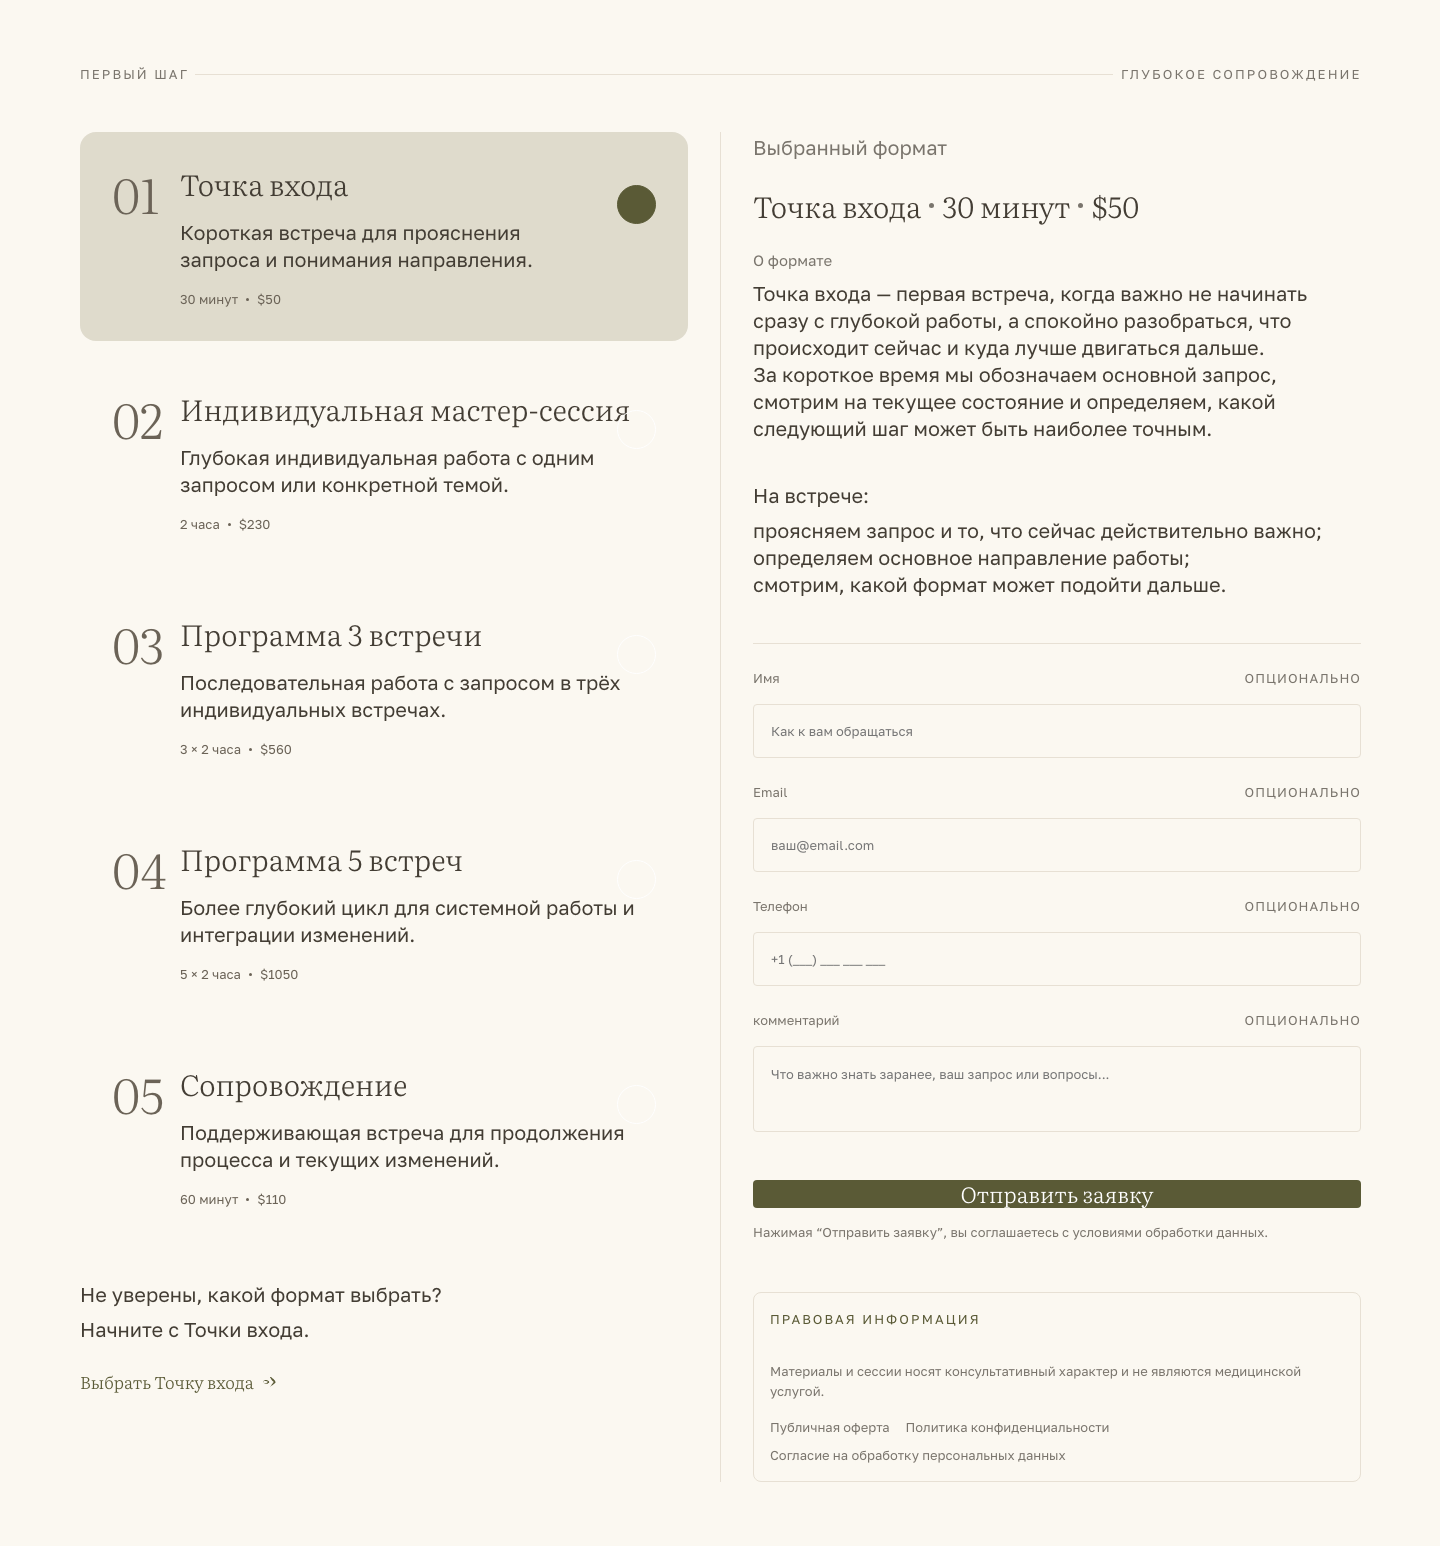
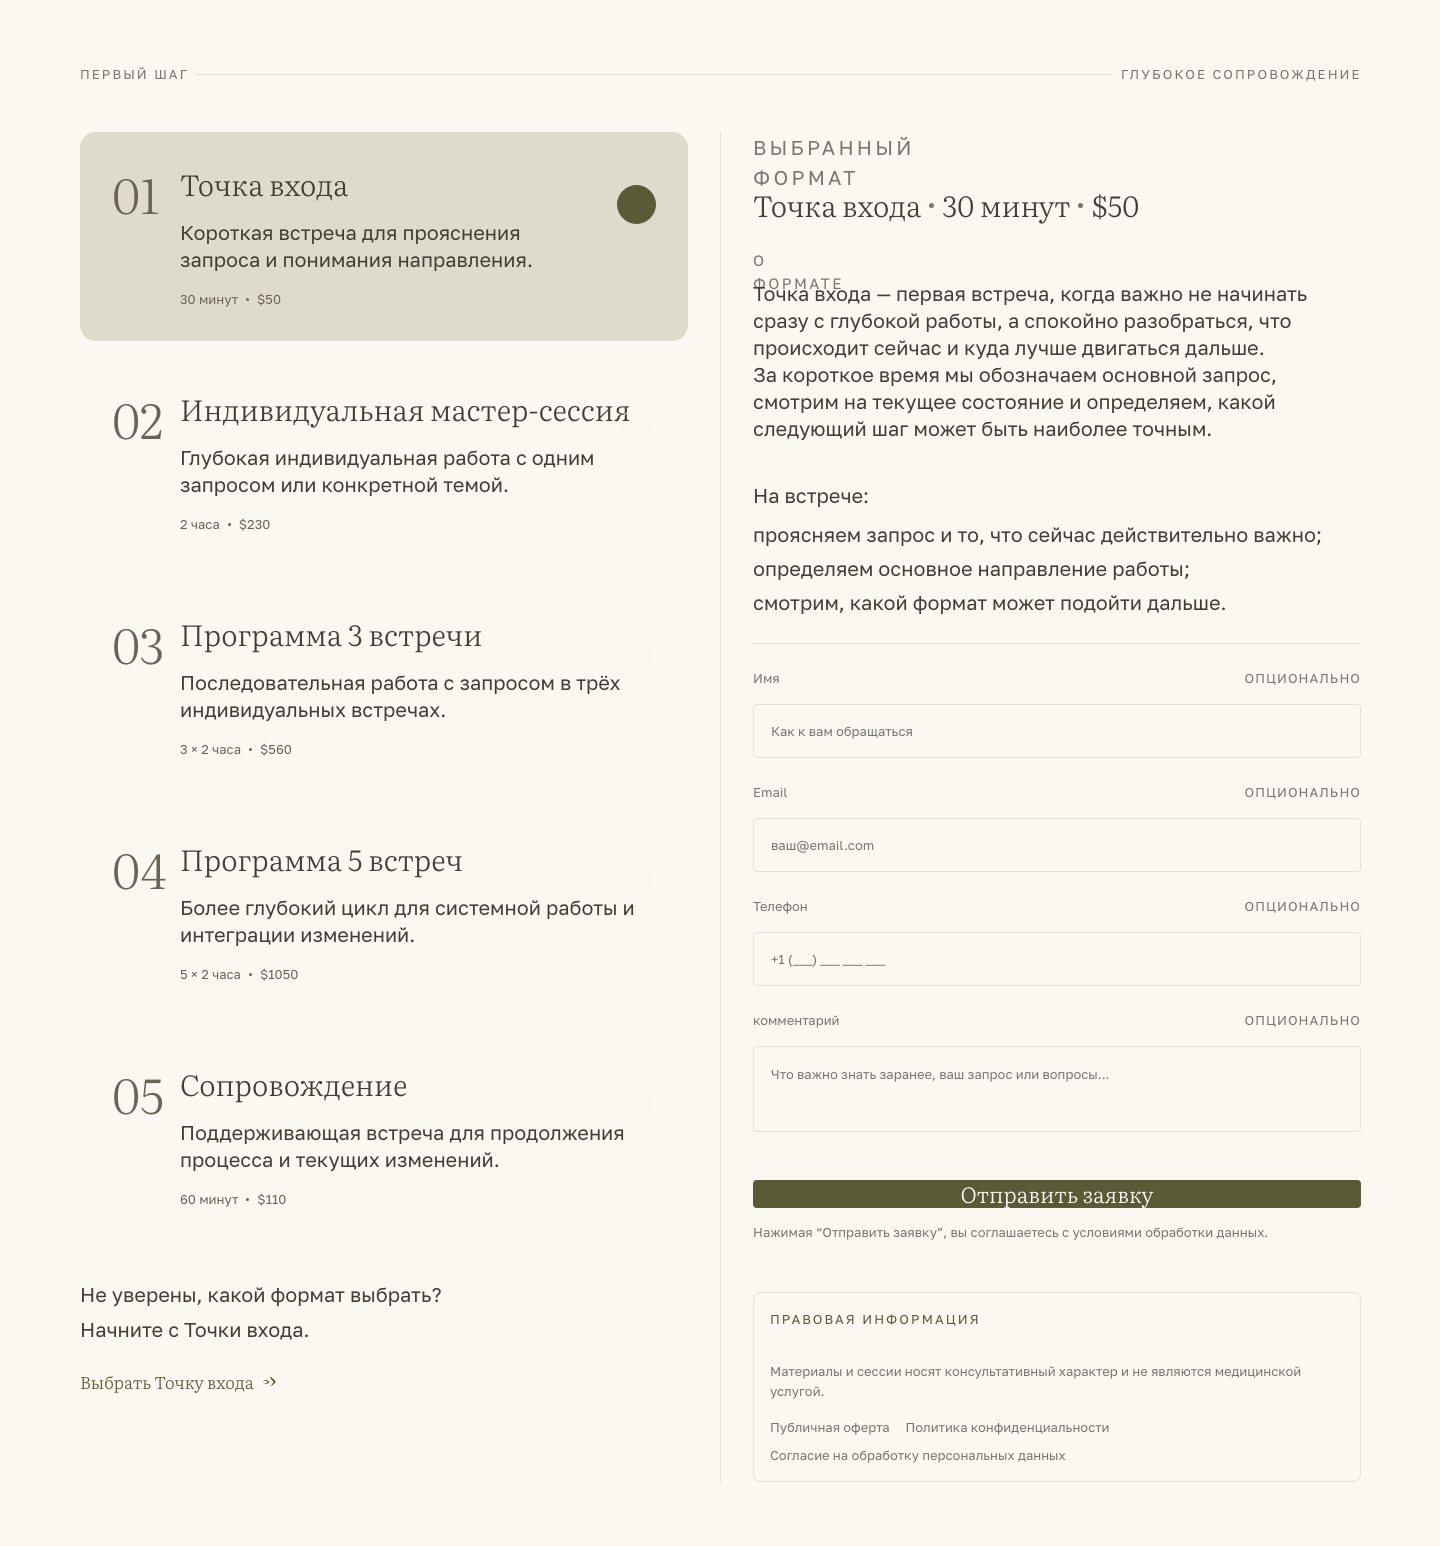
feat(states): проверяются все тексты, а не только длинные
Порог 25 символов оставлял без проверки 442 текста из 644 — все подписи,
цены и длительности. Теперь проверяются все, кроме чистых чисел.

По ходу:
- сравнение без регистра: CSS делает капс, а в разметке нижний регистр —
  ложные срабатывания на шапке и кнопках убраны;
- ignoreTexts: где макет противоречит сам себе (цена $650 в панели против
  $230–$1050 в карточках, «30 мин» против «30 минут»), текст вносится с
  причиной и записывается в FIGMA-ISSUES;
- подписи списка в booking-formats приведены по состояниям: «На встрече:»,
  «В работе:», «В программе:» — три разных подписи одной сущности, это
  проблема макета, записана.

Текстов проверено: 134 → 332. conveyor: 27 из 46, кроме bindings.

diff --git a/docs/decisions.md b/docs/decisions.md
@@ -289,3 +289,6 @@
 | 242 | Уже нажатый переключатель не дефект | Кнопка с `aria-pressed="true"` при повторном клике ничего не меняет по определению — как выбранное радио. Пропускается, иначе ворота требуют «оживить» верное поведение | 56 элементов живых |
 | 243 | `measure` сверяет типографику, а не только координаты | У размеченных текстовых узлов сравниваются кегль, межстрочный и трекинг с узлом спеки (`lineHeight` и `letterSpacing` в процентах пересчитываются от кегля). Раньше `letterSpacing` использовался только для поправки ширины. Обратный тест: вернул трекинг 0,08 вместо 0,16 — поймал «трекинг 3.2 → 1.6» | +3 числа на узел |
 | 244 | Найдено три настоящих расхождения | Новая сверка сразу нашла в `booking-formats` то, что проходило раньше: у «О формате» не было трекинга (2,4 → 0), у заголовка «Выбранный формат» тоже (3,2 → 0), у списка «В работе» межстрочный 34 вместо 27. Исправлено по спеке | 3 → 0 |
+| 245 | Порог проверки текстов снижен с 25 до 4 символов | Порог 25 оставлял без проверки 442 текста из 644 — все подписи, цены и длительности. Теперь проверяются все, кроме чистых чисел. Сразу нашлись расхождения макета: «30 мин» против «30 минут» в состояниях | 134 → 332 текста |
+| 246 | Регистр не сравниваем | CSS делает капс, а в разметке текст в нижнем регистре: «личная встреча» против «Личная встреча». Сравнение без регистра убрало ложные срабатывания на шапке и кнопках | ложных 6 → 0 |
+| 247 | `ignoreTexts` — расхождение макета с причиной | Там, где файл противоречит сам себе (цена $650 в панели против $230–$1050 в карточках, «30 мин» против «30 минут»), текст вносится в `ignoreTexts` с причиной и записью в FIGMA-ISSUES. Ворота не ослаблены — они перестают требовать невозможного | 2 записи |

diff --git a/docs/FIGMA-ISSUES.md b/docs/FIGMA-ISSUES.md
@@ -269,3 +269,35 @@ npm run document     # снимок файла: стили, переменные
 вёрстке он везде на 8. Если задумано иначе — нужен проп, а не правка файла.
 
 **Что нужно:** выровнять `y` во всех инстансах шапки.
+
+### 19. Форматы: цена в панели не совпадает с карточкой
+
+В состояниях 2–5 у выбранного формата стоит цена **$650**, а в карточках —
+$230, $560, $1050, $110. Цена в панели устарела относительно карточек.
+
+Вёрстка идёт по карточкам: панель показывает цену выбранного формата.
+Расхождение внесено в `ignoreTexts` ворот состояний с этой причиной.
+
+**Что нужно:** обновить цену в панели под каждую карточку.
+
+### 20. Форматы: три разных подписи одного и того же
+
+Список «что будет на встрече» подписан по-разному:
+
+| формат | подпись |
+|---|---|
+| Точка входа | «На встрече:» |
+| Мастер-сессия | «В работе:» |
+| Программа 3 встречи | «В программе:» |
+| Программа 5 встреч | «В программе:» |
+| Сопровождение | «На встрече:» |
+
+Одна сущность названа тремя способами. В вёрстке сейчас повторено как в
+файле.
+
+**Что нужно:** выбрать одну подпись.
+
+### 21. Форматы: длительность первой карточки в разных состояниях
+
+В базовом состоянии — «30 мин», в состояниях 2–5 — «30 минут». Мелочь, но
+ворота текстов её ловят, и приходится вносить исключение.
